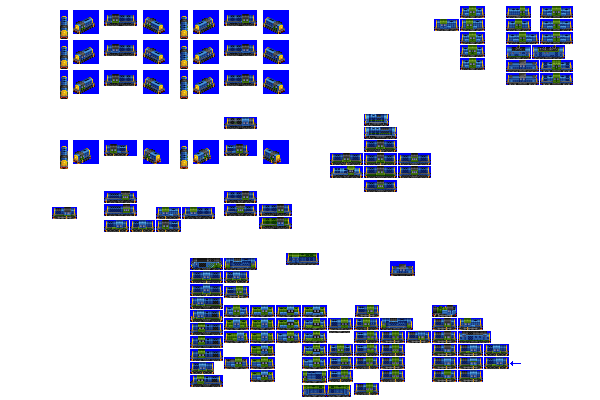
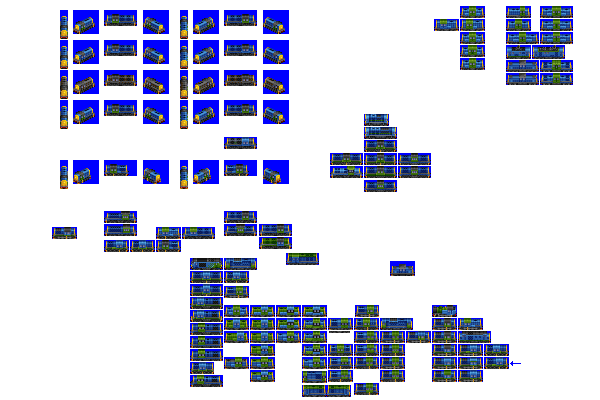
Change: add black livery for Trojan

Changed region(s): [[0.06, 0.18, 0.51, 0.63]]

diff --git a/src/vehicles/pony/trojan.py b/src/vehicles/pony/trojan.py
@@ -17,7 +17,7 @@ def main(**kwargs):
         random_reverse=True,
         gen=4,
         intro_year_offset=6,  # introduce later than gen epoch by design
-        liveries=["CONVENTIONAL_WISDOM", "BANGER_BLUE", "INDUSTRIAL_YELLOW"],
+        liveries=["CONVENTIONAL_WISDOM", "BANGER_BLUE", "FREIGHT_BLACK", "INDUSTRIAL_YELLOW"],
         sprites_complete=True,
     )
 

diff --git a/bin/company_colour_remaps.py b/bin/company_colour_remaps.py
@@ -9,7 +9,7 @@ from polar_fox import graphics_units
 # requires a tmp dir to exist, which should be gitignored
 # set the filename
 input_filenames = [
-    "goliath",
+    "trojan",
 ]
 
 CC1 = 198
